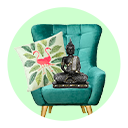
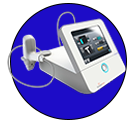
major

diff --git a/src/utils/constants.js b/src/utils/constants.js
@@ -11,92 +11,92 @@ export const categories = [
 // Product Sliders Offers
 export const offerProducts = [
     {
-        image: "https://rukminim1.flixcart.com/image/150/150/jqgy3rk0/computer-table/j/2/v/particle-board-dkl-comp-tb-09-delite-kom-brown-original-imafcheqbgers37z.jpeg",
-        name: "Office Study Tables",
-        offer: "From ₹3,290",
-        tag: "Made In India Brands",
+        image: "https://image.made-in-china.com/201f0j00vRyqFQsoQBbw/Factory-Price-Hospital-Medical-Equipment-High-Frequency-32kw-50kw-Stationary-Portable-Digital-Radiography-X-Ray-Machine-for-Veterinary-and-Human.webp",
+        name: "Mobile X-ray Machine",
+        offer: "Limited offer",
+        tag: "Made in Japan",
     },
     {
-        image: "https://rukminim1.flixcart.com/image/150/150/ksoz53k0/data-cable/micro-usb-cable/o/w/a/d4-lava-original-imag67jpby4fehga.jpeg",
-        name: "Mobiles & Accessories",
-        offer: "In Focus Now",
+        image: "https://gajitz.com/wp-content/uploads/2011/10/portable-ultrasound-3.jpg",
+        name: "Handheld Ultrasound",
+        offer: "New",
         tag: "Buy Now!",
     },
     {
-        image: "https://rukminim1.flixcart.com/image/150/150/kffq2kw0/calculator/p/m/a/orpat-gt-ot-512-gt-calaculatot-original-imafvwdmnzpzufbb.jpeg",
-        name: "Calculators",
+        image: "https://medpick.in/wp-content/uploads/2019/09/toshiba-aquilion-32-slice-full.png",
+        name: "SLICE CT SCANNER",
         offer: "Min 70% Off",
         tag: "Buy Now!",
     },
     {
-        image: "https://rukminim1.flixcart.com/image/150/150/krkyt8w0/office-study-chair/v/l/1/pp-polypropylene-shdelta-1001-savya-home-original-imag5ccydueur3es.jpeg",
-        name: "Office Study Chairs",
+        image: "https://medpick.in/wp-content/uploads/2019/09/ziehm-exposcop-7000-full.png",
+        name: "ZIEHM EXPOSCOP 7000 FULL-SIZE C-ARM",
         offer: "Min 40% Off",
         tag: "Grab Now!",
     },
     {
-        image: "https://rukminim1.flixcart.com/image/150/150/ky0g58w0/smartwatch/v/w/p/33-android-ios-id116-plus-fitpro-yes-original-imagacdfj58fqtgf.jpeg",
-        name: "Smart Watches",
+        image: "https://medpick.in/wp-content/uploads/2021/07/ARM-REHABILITATION-DEVICE.jpg",
+        name: "ARM REHABILITATION DEVICE",
         offer: "Min 40% Off",
         tag: "Discover Now!",
     },
     {
-        image: "https://rukminim1.flixcart.com/image/150/150/khmbafk0-0/tripod/tripod/6/7/5/professional-3110-tripod-with-mobile-holder-light-aluminum-alloy-original-imafxhcaks7j2tq8.jpeg",
-        name: "Tripods",
+        image: "https://medpick.in/wp-content/uploads/2019/09/Philips-Intera-1-0T-full.png",
+        name: "PHILIPS INTERA 1.0T",
         offer: "Min 50% Off",
         tag: "Great Savings!",
     },
     {
-        image: "https://rukminim1.flixcart.com/image/150/150/kjn6qvk0-0/shoe/d/c/v/ck2669-001nike-12-nike-black-white-smoke-grey-original-imafz5vwe5t53z3t.jpeg",
-        name: "Nike, Skechers & more",
+        image: "https://medpick.in/wp-content/uploads/2020/04/Zona-Plus-%E2%80%93-Series-3.jpg",
+        name: "Zona Plus – Series 3",
         offer: "Upto 40% Off",
         tag: "Buy Now!",
     },
     {
-        image: "https://rukminim1.flixcart.com/flap/150/150/image/72e01243baf51459.jpg",
-        name: "Immunity Booster",
+        image: "https://medpick.in/wp-content/uploads/2022/08/Imaging-Mammograms-Analog-Mammogram.jpg",
+        name: "FilmBased Mammography",
         offer: "Upto 50% Off",
         tag: "Great Savings!",
     },
     {
-        image: "https://rukminim1.flixcart.com/image/150/150/kskotjk0/headphone/p/c/b/nb120-tehalka-28-hours-playtime-neckband-aroma-original-imag6444my9aegkg.jpeg",
-        name: "Headphones",
+        image: "https://medpick.in/wp-content/uploads/2021/01/Zebronics-Contactless-Infrared-Thermometer.jpg",
+        name: "Infrared Thermometer",
         offer: "Min 60% Off",
         tag: "Grab Now!",
     },
     {
-        image: "https://rukminim1.flixcart.com/image/150/150/jrcdsi80/backpack/n/v/j/jersey-26l-blue-backpack-jersey19cbblu-backpack-safari-original-imaf8yr6yfbbhysk.jpeg",
-        name: "Trendy Backpacks",
+        image: "https://medpick.in/wp-content/uploads/2020/09/Cellenium-380.jpg",
+        name: "Cellenium 380",
         offer: "Upto 30% Off",
         tag: "Discover Now!",
     },
     {
-        image: "https://rukminim1.flixcart.com/image/150/150/kxdl3m80/air-conditioner-new/a/h/e/-original-imag9ua4eguhz7vr.jpeg",
-        name: "Air Conditioners",
+        image: "https://medpick.in/wp-content/uploads/2020/09/eVolution-3e-Essential-Ventilator.jpg",
+        name: "EVolution 3e Essential Ventilator",
         offer: "Min 20% Off",
         tag: "Shop Now!",
     },
     {
-        image: "https://rukminim1.flixcart.com/image/150/150/ku79vgw0/watch/t/f/y/nn9440nm01-titan-men-original-imag7cvayzwgazbm.jpeg",
-        name: "Titan, Fastrack, Casio",
+        image: "https://medpick.in/wp-content/uploads/2019/12/1-500x500-49.jpg",
+        name: "DURR Dental Vista Scan Image Plate Scanner",
         offer: "Upto 75% Off",
         tag: "Grab Now!",
     },
     {
-        image: "https://rukminim1.flixcart.com/image/150/150/ksoz53k0/data-cable/micro-usb-cable/o/w/a/d4-lava-original-imag67jpby4fehga.jpeg",
-        name: "Mobile Cables",
+        image: "https://medpick.in/wp-content/uploads/2019/11/Alltech-MRI-1.jpg",
+        name: "Alltech MRI",
         offer: "Min 50% Off",
         tag: "Explore Now!",
     },
     {
-        image: "https://rukminim1.flixcart.com/image/150/150/jgcktjk0/sofa-set/z/b/u/grey-jute-nanoblkgr311-3-1-1-bharat-lifestyle-black-grey-original-imaf4myfta6nhkuh.jpeg",
-        name: "Sofa Sets",
+        image: "https://medpick.in/wp-content/uploads/2019/10/Schiller-Aquilon-ICU-Ventilator-2.jpg",
+        name: "Schiller Aquilon ICU Ventilator",
         offer: "Min 50% Off",
         tag: "Great Savings!",
     },
     {
-        image: "https://rukminim1.flixcart.com/image/150/150/k6mibgw0/datacard/r/h/g/jiofi-jmr-541-original-imafpfhandhkptwc.jpeg",
-        name: "Data Cards",
+        image: "https://medpick.in/wp-content/uploads/2019/09/hologic-discovery-full.png",
+        name: "Hologic Discovery Bone Densitometers",
         offer: "Upto 60% Off",
         tag: "Buy Now!",
     },
@@ -107,63 +107,15 @@ export const offerProducts = [
         tag: "Grab Now!",
     },
     {
-        image: "https://rukminim1.flixcart.com/image/150/150/k5zn9u80/induction-cook-top/r/q/z/philips-phlps-2100-watt-induction-cooktop-black-original-imaf95d6gupffzr9.jpeg",
-        name: "Philips Inductions",
+        image: "https://medpick.in/wp-content/uploads/2019/09/esaote-o-scan-extremity-full.png",
+        name: "ESAOTE O-SCAN EXTREMITY",
         offer: "Upto 55% Off",
         tag: "Top Rated",
     },
     {
-        image: "https://rukminim1.flixcart.com/image/150/150/k7jdg280/lehenga-choli/m/h/f/free-na-102l10171-saara-original-imafprdmenpgbx2n.jpeg",
-        name: "Lehenga Cholis",
+        image: "https://medpick.in/wp-content/uploads/2019/11/laser-imager-250x250.jpg",
+        name: "DryView Laser Imager (Single Tray)",
         offer: "Min 60% Off",
         tag: "Great Savings!",
-    },
-    {
-        image: "https://rukminim1.flixcart.com/image/150/150/ky3b0y80/television/s/k/h/-original-imagaedxhbam3wmx.jpeg",
-        name: "8K UHD | QLED TVs",
-        offer: "Upto 65% Off",
-        tag: "Discover Now!",
-    },
-    {
-        image: "https://rukminim1.flixcart.com/image/150/150/jlgwmfk0/coffee-table/c/h/9/rosewood-sheesham-inlct23-induscraft-honey-brown-original-imaf8kc3gprrchxd.jpeg",
-        name: "Coffee Tables",
-        offer: "From ₹1,900",
-        tag: "Relax & Work",
-    },
-    {
-        image: "https://rukminim1.flixcart.com/image/150/150/ksdjma80/headphone/a/u/p/airdopes-131-airdopes-138-boat-original-imag5yz9sfz9bzq8.jpeg",
-        name: "Audio & Video",
-        offer: "Min 50% Off",
-        tag: "Explore Now!",
-    },
-    {
-        image: "https://rukminim1.flixcart.com/image/150/150/kbgu1e80/refrigerator-new/g/g/r/steel-inverter-technology-whirlpool-original-imafssu7ghxg5zgh.jpeg",
-        name: "Refrigerators",
-        offer: "Upto 20% Off",
-        tag: "Shop Now!",
-    },
-    {
-        image: "https://rukminim1.flixcart.com/image/150/150/kqidx8w0/television/o/h/9/43fa0a00-oneplus-original-imag4gy9perzvrdv.jpeg",
-        name: "Most Trending TVs",
-        offer: "Upto 60% Off",
-        tag: "Great Savings!",
-    },
-    {
-        image: "https://rukminim1.flixcart.com/image/150/150/keaaavk0/computer/x/m/y/lenovo-na-laptop-original-imafuzt8r5jqppfn.jpeg",
-        name: "Laptops",
-        offer: "Min 20% Off",
-        tag: "Great Savings!",
-    },
-    {
-        image: "https://rukminim1.flixcart.com/image/150/150/jtvtz0w0/sling-bag/d/u/k/ponam110-ponam-green-deniza-sling-bag-roseberries-original-imafyuvty2kzymr7.jpeg",
-        name: "Handbags",
-        offer: "Min 70% Off",
-        tag: "Grab Now!",
-    },
-    {
-        image: "https://rukminim1.flixcart.com/image/150/150/jjkbhjk0/sandwich-maker/5/q/g/nova-2-slice-sandwich-maker-original-imaf74a8zrqzfgug.jpeg",
-        name: "Sandwich Makers",
-        offer: "Upto 80% Off",
-        tag: "Buy Now!",
     }
 ]

diff --git a/src/components/Layouts/Header/Header.jsx b/src/components/Layouts/Header/Header.jsx
@@ -4,7 +4,6 @@ import ShoppingCartIcon from '@mui/icons-material/ShoppingCart';
 import Searchbar from './Searchbar';
 import logo from '../../../assets/images/logo.png';
 import PrimaryDropDownMenu from './PrimaryDropDownMenu';
-import SecondaryDropDownMenu from './SecondaryDropDownMenu';
 import { useState } from 'react';
 import { useSelector } from 'react-redux';
 import { Link } from 'react-router-dom';
@@ -40,24 +39,24 @@ const Header = () => {
         {/* <!-- logo & search container --> */}
 
         {/* <!-- right navs --> */}
-        <span className="moreDropDown hidden sm:flex px-3 items-center text-white font-medium gap-1 cursor-pointer">Bidding
+        <span className="moreDropDown hidden sm:flex px-3 items-center text-xl text-white font-black gap-1 cursor-pointer">Bidding
         <span><ReceiptIcon /></span>
         </span>
-        <span className="moreDropDown hidden  sm:flex px-3 items-center text-white font-medium gap-1 cursor-pointer">
+        <span className="moreDropDown hidden text-xl sm:flex px-3 items-center text-white font-medium gap-1 cursor-pointer">
           Importers
           <span><ImportExportIcon /></span>
           </span>
      
         
-        <span className="moreDropDown hidden sm:flex px-3 items-center text-white font-medium gap-2 cursor-pointer">
+        <span className="moreDropDown text-xl hidden sm:flex px-3 items-center text-white font-medium gap-2 cursor-pointer">
           Products
             <span><InventoryIcon sx={{ fontSize: "16px" }} /> </span>
           </span>
-          <span className="moreDropDown hidden sm:flex px-3 items-center text-white font-medium gap-2 cursor-pointer">
+          <span className="moreDropDown text-xl hidden sm:flex px-3 items-center text-white font-medium gap-2 cursor-pointer">
           clique
             <span><Groups3Icon sx={{ fontSize: "22px" }} /> </span>
           </span>
-        <div className="flex items-center  px-3  justify-between ml-1 sm:ml-0 gap-0.5 sm:gap-7 relative">
+        <div className="flex items-center text-xl  px-3  justify-between ml-1 sm:ml-0 gap-0.5 sm:gap-7 relative">
 
 
           <Link to="/cart" className="flex items-center text-white font-medium gap-2 relative">
@@ -71,7 +70,7 @@ const Header = () => {
           </Link>
         </div>
         {isAuthenticated === false ?
-            <Link to="/login" className="px-3 sm:px-9 py-0.5 text-white  font-medium rounded-sm cursor-pointer">Login</Link>
+            <Link to="/login" className="px-3 text-xl sm:px-9 py-0.5 text-white  font-medium rounded-sm cursor-pointer">Login</Link>
             :
             (
               <span className="userDropDown flex items-center text-white font-medium gap-1 cursor-pointer" onClick={() => setTogglePrimaryDropDown(!togglePrimaryDropDown)}>{user.name && user.name.split(" ", 1)}

diff --git a/src/components/Home/Banner/Banner.jsx b/src/components/Home/Banner/Banner.jsx
@@ -4,14 +4,16 @@ import "slick-carousel/slick/slick-theme.css";
 import './Banner.css';
 import ArrowBackIosIcon from '@mui/icons-material/ArrowBackIos';
 import ArrowForwardIosIcon from '@mui/icons-material/ArrowForwardIos';
+import fashionSale from '../../../assets/images/Banners/fashionsale.png';
+import fashionSale2 from '../../../assets/images/Banners/fashion-sale.png';
 import gadgetSale from '../../../assets/images/Banners/gadget-sale.jpg';
-import kitchenSale from '../../../assets/images/Banners/kitchen-sale.jpg';
-import poco from '../../../assets/images/Banners/poco-m4-pro.webp';
-import realme from '../../../assets/images/Banners/realme-9-pro.webp';
-import fashionSale from '../../../assets/images/Banners/fashionsale.jpg';
-import oppo from '../../../assets/images/Banners/oppo-reno7.webp';
+import kitchenSale from '../../../assets/images/Banners/kitchen-sale.png';
 
-export const PreviousBtn = ({ className, onClick }) => {
+// import poco from '../../../assets/images/Banners/poco-m4-pro.webp';
+// import realme from '../../../assets/images/Banners/realme-9-pro.webp';
+// import oppo from '../../../assets/images/Banners/oppo-reno7.webp';
+
+export const PreviousBtn = ({ className, onClick }) => {   
   return (
     <div className={className} onClick={onClick}>
       <ArrowBackIosIcon />
@@ -31,7 +33,7 @@ const Banner = () => {
 
   const settings = {
     autoplay: true,
-    autoplaySpeed: 2000,
+    autoplaySpeed: 3000,
     dots: false,
     infinite: true,
     speed: 500,
@@ -41,7 +43,7 @@ const Banner = () => {
     nextArrow: <NextBtn />,
   };
 
-  const banners = [gadgetSale, kitchenSale, poco, fashionSale, realme, oppo];
+  const banners = [fashionSale2,gadgetSale, kitchenSale, fashionSale];
 
   return (
     <>
@@ -52,6 +54,7 @@ const Banner = () => {
           ))}
         </Slider>
       </section>
+      
     </>
   );
 };

diff --git a/src/components/Layouts/Header/Searchbar.jsx b/src/components/Layouts/Header/Searchbar.jsx
@@ -6,7 +6,6 @@ const Searchbar = () => {
 
     const [keyword, setKeyword] = useState("");
     const navigate = useNavigate();
-
     const handleSubmit = (e) => {
         e.preventDefault();
         if(keyword.trim()){
@@ -15,9 +14,8 @@ const Searchbar = () => {
             navigate('/products');
         }
     }
-
     return (
-        <form onSubmit={handleSubmit} className="w-full sm:w-9/12 px-1 sm:px-4 py-1.5 flex justify-between items-center shadow-md bg-white rounded-sm overflow-hidden">
+        <form onSubmit={handleSubmit} className="w-full sm:w-8/12 px-1 sm:px-4 py-1.5 flex justify-between items-center shadow-md bg-white rounded-sm overflow-hidden">
             <input value={keyword} onChange={(e) => setKeyword(e.target.value)} className="text-sm flex-1 outline-none border-none placeholder-gray-500" type="text" placeholder="Search for products, brands and more" />
             <button type="submit" className="text-primary-blue"><SearchIcon /></button>
         </form>

diff --git a/src/components/Layouts/Categories.jsx b/src/components/Layouts/Categories.jsx
@@ -11,39 +11,40 @@ import { Link } from 'react-router-dom';
 
 const catNav = [
     {
-        name: "Mobiles",
+        name: "Medical ICU",
+        icon: appliances,
+    },
+    {
+        name: "Imaging",
         icon: mobiles,
     },
     {
-        name: "Fashion",
+        name: "Trauma",
         icon: fashion,
     },
     {
-        name: "Electronics",
+        name: "Anesthesia",
         icon: electronics,
     },
     {
-        name: "Home",
+        name: "Dermatology",
         icon: home,
     },
     {
-        name: "Travel",
+        name: "Gynecology",
         icon: travel,
     },
-    {
-        name: "Appliances",
-        icon: appliances,
-    },
+   
     {
         name: "Furniture",
         icon: furniture,
     },
     {
-        name: "Beauty,Toys & more",
+        name: "Dental",
         icon: beauty,
     },
     {
-        name: "Grocery",
+        name: "pharmaceuticals",
         icon: grocery,
     },
 ]

diff --git a/public/index.html b/public/index.html
@@ -7,11 +7,11 @@
     <meta name="theme-color" content="#000000" />
     <meta
       name="description"
-      content="Online Shopping India | Buy Mobiles, Electronics, Appliances, Clothing and More Online at Flipkart"
+      content="Med Mart Ecommerce"
     />
     <link rel="apple-touch-icon" href="%PUBLIC_URL%/logo192.png" />
     <link rel="manifest" href="%PUBLIC_URL%/manifest.json" />
-    <title>Flipkart MERN | Ecommerce Website</title>
+    <title>Med Mart Ecommerce</title>
   </head>
   <body>
     <noscript>You need to enable JavaScript to run this app.</noscript>

diff --git a/src/components/Home/Home.jsx b/src/components/Home/Home.jsx
@@ -25,7 +25,7 @@ const Home = () => {
 
   return (
     <>
-      <MetaData title="Online Shopping Site for Mobiles, Electronics, Furniture, Grocery, Lifestyle, Books & More. Best Offers!" />
+      <MetaData title="Home | Med Mart" />
       <Categories />
       <main className="flex flex-col gap-3 px-2 mt-16 sm:mt-2">
         <Banner />

diff --git a/src/components/User/Login.jsx b/src/components/User/Login.jsx
@@ -39,7 +39,7 @@ const Login = () => {
 
     return (
         <>
-            <MetaData title="Login | Flipkart" />
+            <MetaData title="Login | Med Mart" />
 
             {loading && <BackdropLoader />}
             <main className="w-full mt-12 sm:pt-20 sm:mt-0">
